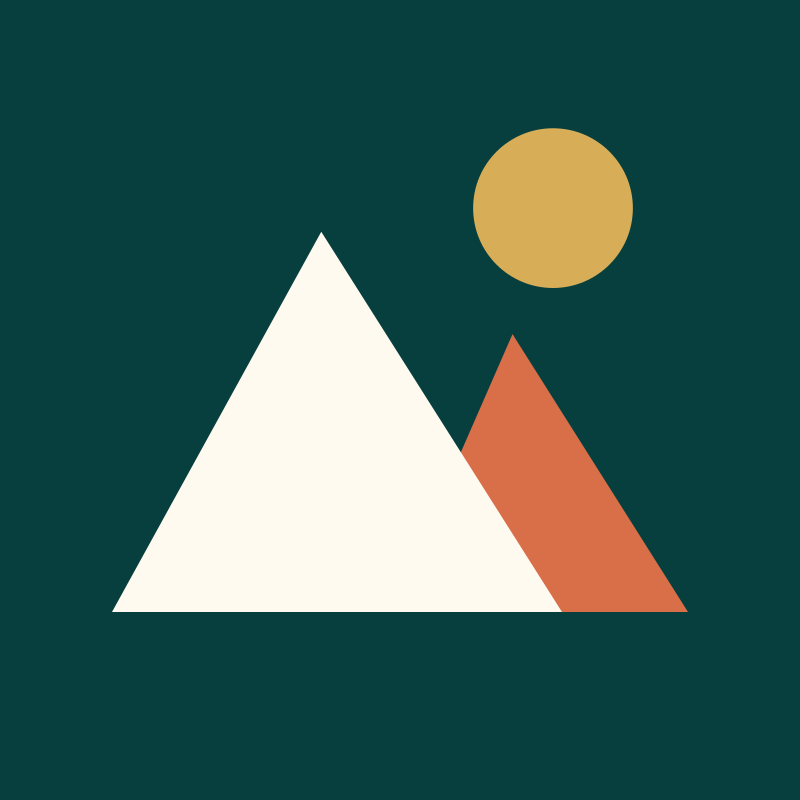
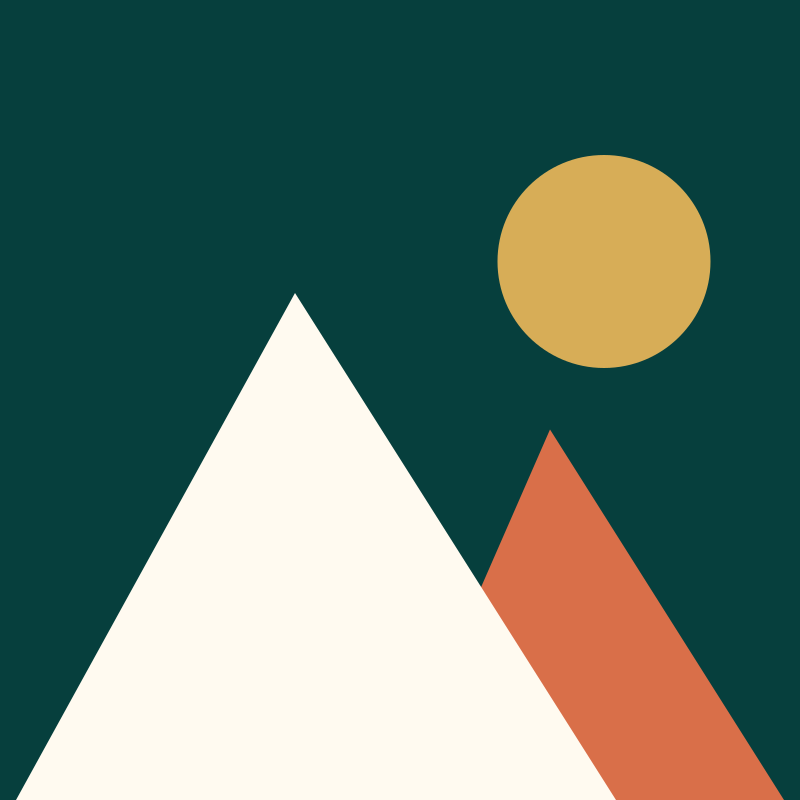
no-mistakes(review): Bleed X profile peaks off bottom like site mark

diff --git a/assets/brand/README.md b/assets/brand/README.md
@@ -3,7 +3,7 @@
 | File | Size | Use |
 | --- | --- | --- |
 | `bigsky-mark.svg` | Vector (512 × 512 viewBox) | Master Big Sky AI mark: teal rounded square, cream and coral peaks, gold sun. Redrawn to match `../bigsky-favicon-192.png`. |
-| `bigsky-x-profile.png` | 800 × 800 | X profile picture. Full-bleed teal, with the peaks and sun kept inside the circle X crops to. |
+| `bigsky-x-profile.png` | 800 × 800 | X profile picture. Full-bleed teal, composed like the site mark: the peaks bleed off the bottom edge and are trimmed by the circle X crops to, while the sun stays fully inside it. |
 | `bigsky-x-header.png` | 1500 × 500 | X header banner. Share-card style, with all text kept clear of the profile picture at the bottom left and of mobile edge crops. |
 
 Each PNG is rendered from the SVG of the same name in this folder:
